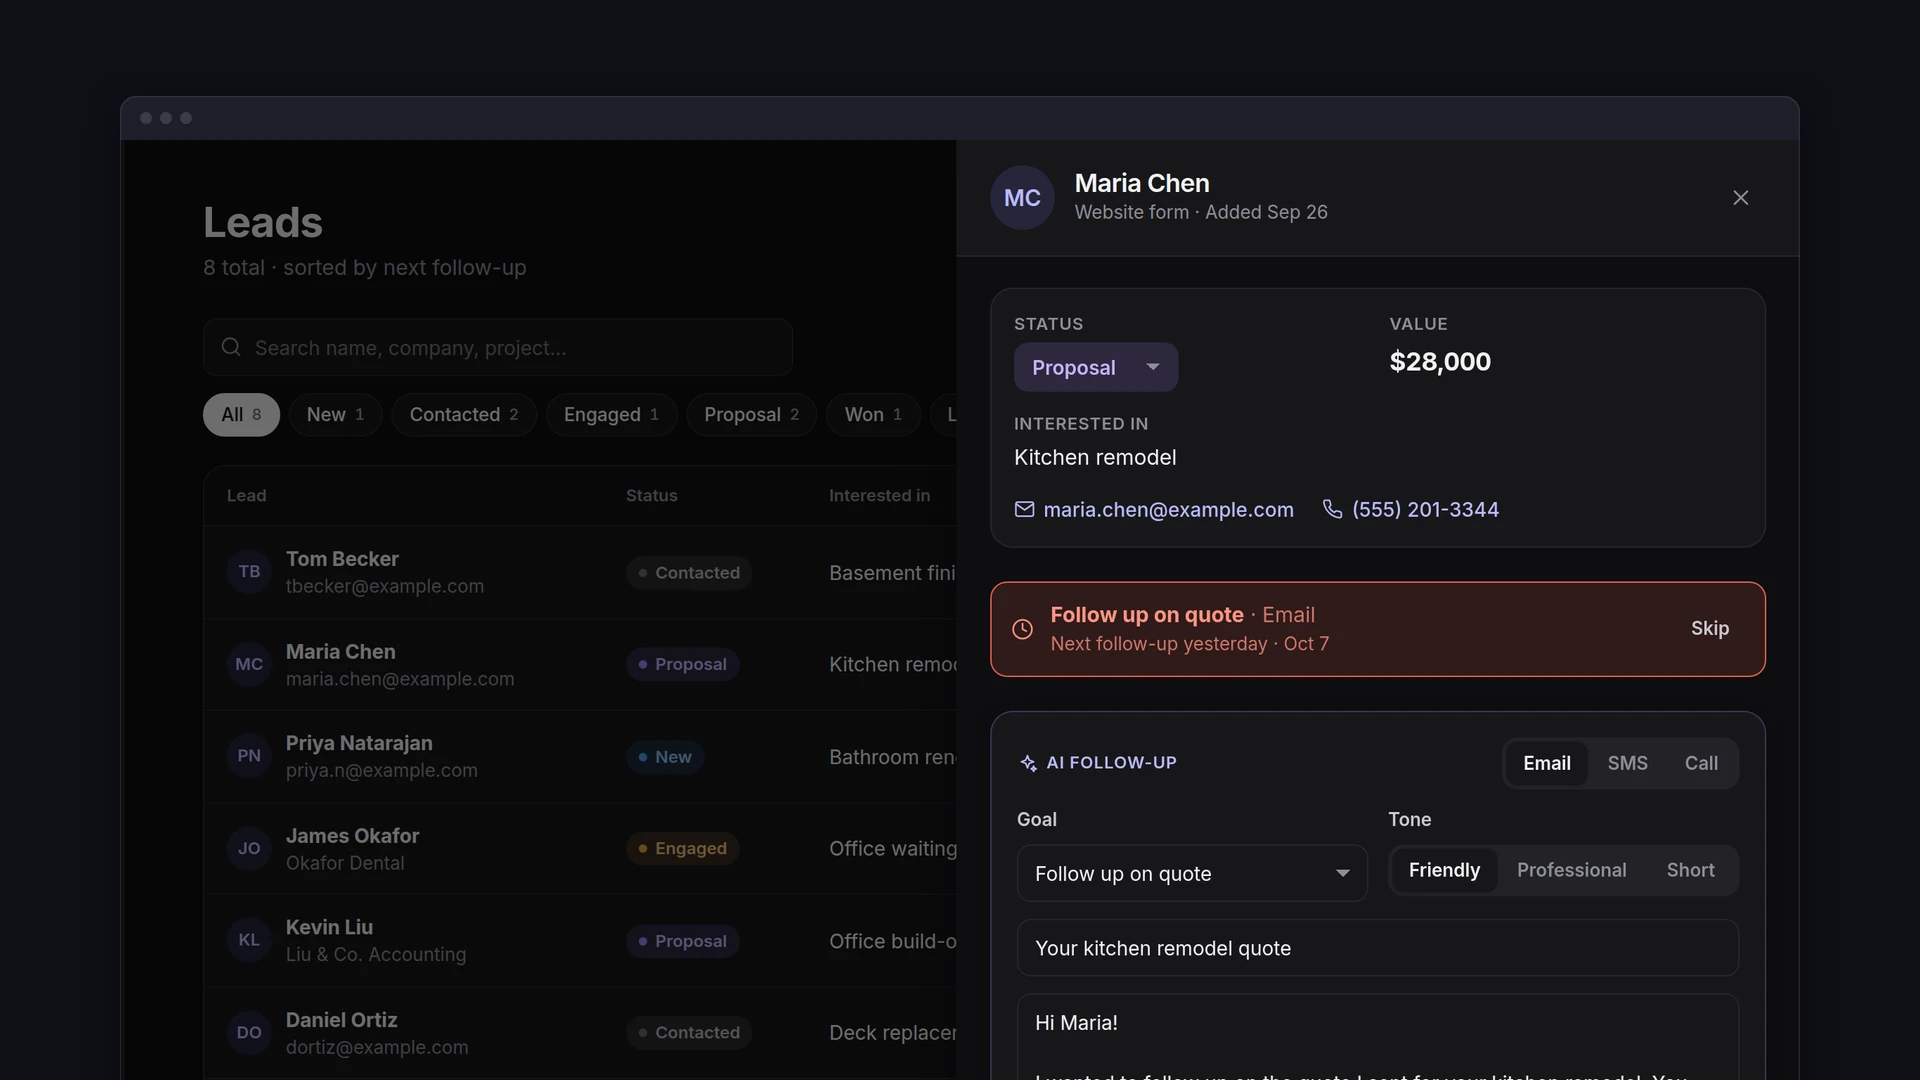
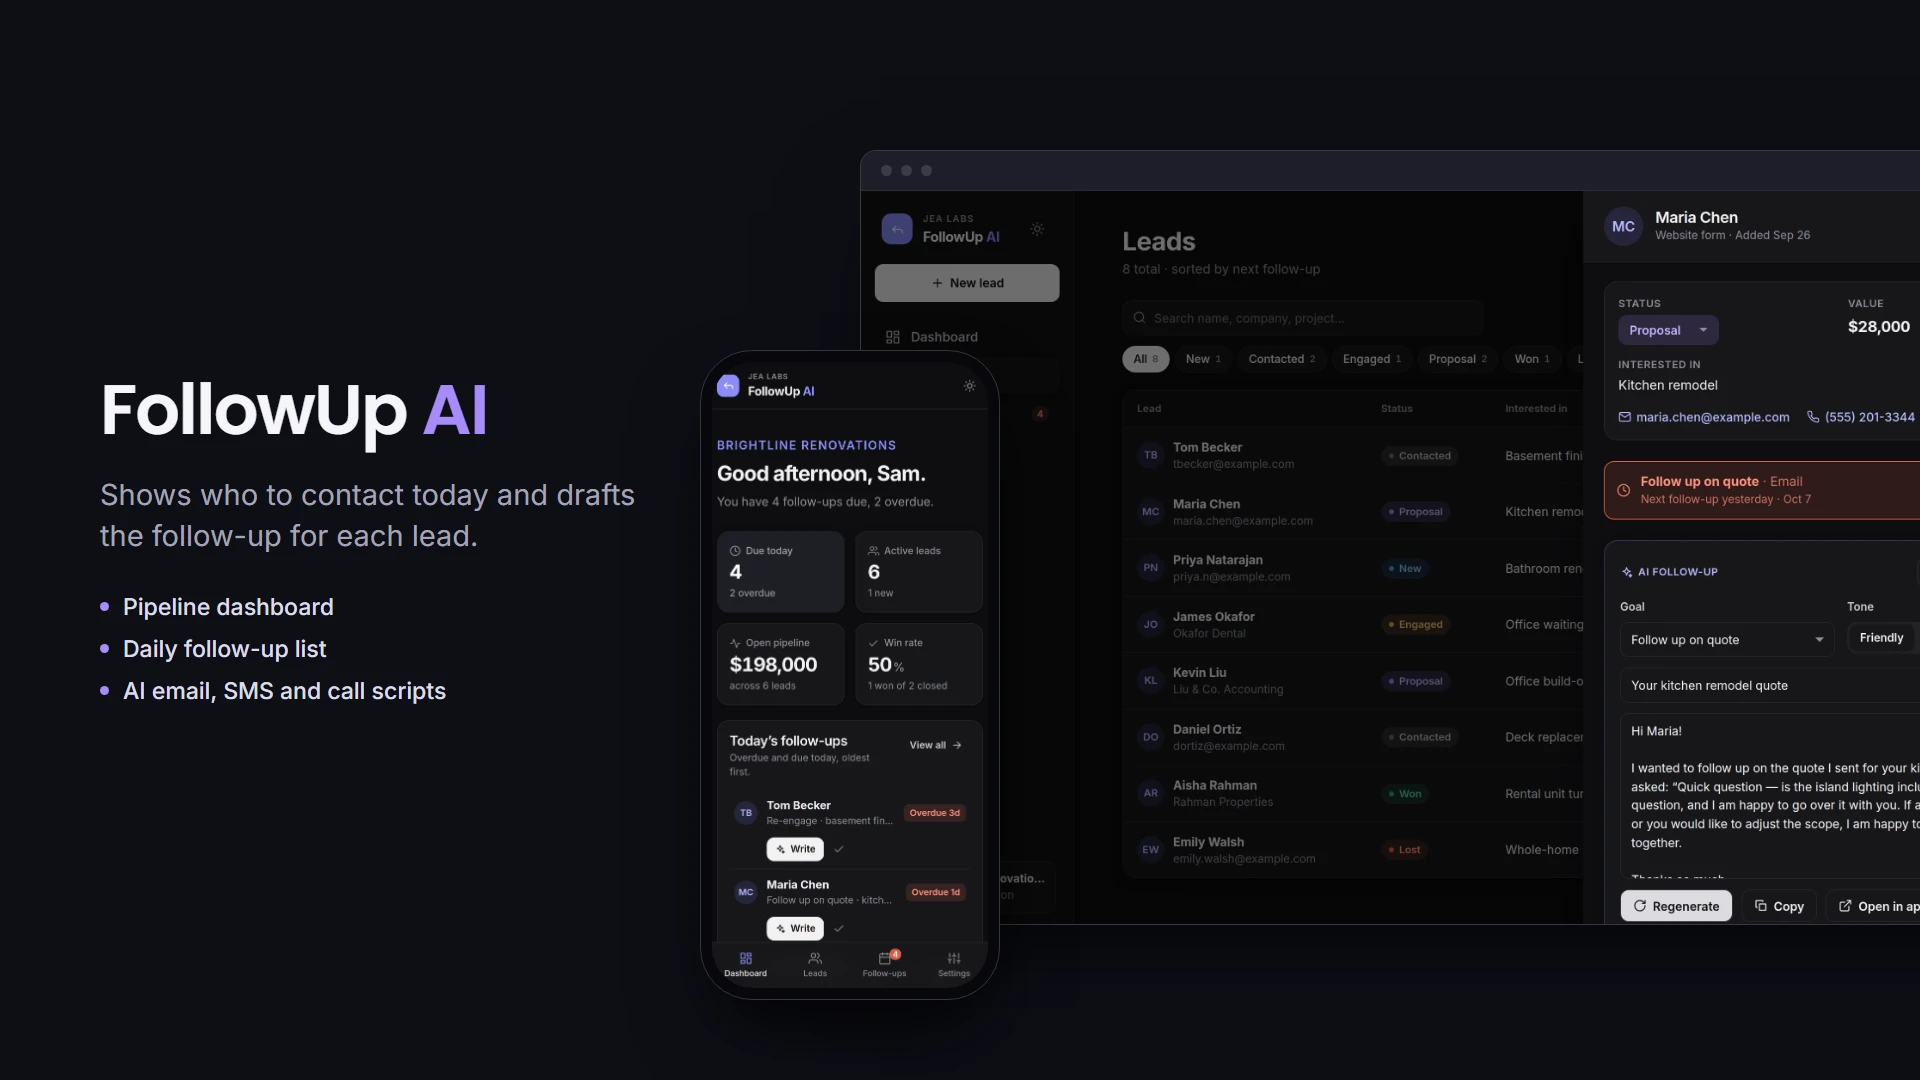
Redesign portfolio thumbnails with name, desktop and mobile views
Each thumbnail now shows the product name, a one-line description and
key features beside real desktop and mobile screenshots, without any
sales copy. Alt text updated to match.

diff --git a/src/data/site.ts b/src/data/site.ts
@@ -50,7 +50,7 @@ export const featured = {
   note: 'Started as my IT capstone and rebuilt as a live product. It is an aid for checking information, not a final authority.',
   tags: ['Java', 'Spring Boot', 'Spring AI', 'React', 'PostgreSQL', 'LLM + Web Search'],
   image: verifactImg,
-  alt: 'VeriFact check page with text, image and audio input tabs, next to an example report marking the claim "The Eiffel Tower is located in Rome" as Contradicted with a reference source and a fact-checker source',
+  alt: 'VeriFact homepage with an example report marking a claim as Contradicted with its sources, beside the VeriFact check page on a phone',
 };
 
 export const projects = [
@@ -61,7 +61,7 @@ export const projects = [
       'Customer support helpdesk with an inbox, tickets, customers, a knowledge base and analytics, using Claude to draft replies, summarize tickets and suggest category, priority and tags.',
     tags: ['JavaScript', 'Node.js', 'Claude API', 'Helpdesk'],
     image: supportdeskImg,
-    alt: 'SupportDesk AI inbox with a ticket list and an open ticket showing an AI summary with customer mood and suggested next steps',
+    alt: 'SupportDesk AI inbox with an AI ticket summary on desktop, beside the helpdesk dashboard on a phone',
   },
   {
     name: 'AI Receptionist',
@@ -70,7 +70,7 @@ export const projects = [
       'Business website with a chat receptionist that answers from business data and offers open time slots, a five-step booking flow and an admin dashboard.',
     tags: ['Astro', 'TypeScript', 'Booking', 'Chat assistant'],
     image: receptionistImg,
-    alt: 'Demo dental clinic website with the Luma AI chat assistant answering a pricing question and offering open appointment times',
+    alt: 'AI Receptionist demo dental clinic site with the Luma AI chat offering open appointment times, beside the mobile site on a phone',
   },
   {
     name: 'QuoteFlow AI',
@@ -79,7 +79,7 @@ export const projects = [
       'Quotation tool that turns a plain-language customer request into a line-item quote, with a quote pipeline dashboard and print-ready PDF output.',
     tags: ['React', 'TypeScript', 'Business software'],
     image: quoteflowImg,
-    alt: 'QuoteFlow AI new-quote screen with the AI assistant turning a customer request into suggested services and line items, and a running quote total',
+    alt: 'QuoteFlow AI new-quote screen with the AI assistant drafting line items, beside the quote dashboard on a phone',
   },
   {
     name: 'InvoiceFlow AI',
@@ -88,7 +88,7 @@ export const projects = [
       'Invoicing app for freelancers and small businesses with a revenue dashboard, payment tracking, print-ready PDF invoices, and AI-written line items and payment reminders.',
     tags: ['JavaScript', 'Node.js', 'Invoicing'],
     image: invoiceflowImg,
-    alt: 'InvoiceFlow AI dashboard with revenue, paid, pending and overdue totals, a monthly revenue chart and invoice status breakdown',
+    alt: 'InvoiceFlow AI revenue dashboard with totals, a monthly chart and invoice status, on desktop and on a phone',
   },
   {
     name: 'LeadFlow AI',
@@ -97,7 +97,7 @@ export const projects = [
       'Lead capture assistant that collects contact details, tags each enquiry by intent and drafts follow-up email and SMS messages for a lead dashboard.',
     tags: ['Astro', 'TypeScript', 'Lead capture', 'Automation'],
     image: leadflowImg,
-    alt: 'LeadFlow AI lead dashboard with a lead detail panel showing an AI summary, contact details and buttons to generate a follow-up email or SMS',
+    alt: 'LeadFlow AI lead dashboard with an AI summary and follow-up buttons, beside the demo clinic site with its lead capture chat on a phone',
   },
   {
     name: 'ReviewFlow AI',
@@ -106,7 +106,7 @@ export const projects = [
       'Review management dashboard with rating trends, sentiment breakdown, drafted replies to customer reviews and review-request messages.',
     tags: ['React', 'TypeScript', 'Reputation'],
     image: reviewflowImg,
-    alt: 'ReviewFlow AI dashboard with average rating, review counts, a six-month rating trend chart and a sentiment breakdown',
+    alt: 'ReviewFlow AI dashboard with average rating, rating trend and sentiment breakdown, on desktop and on a phone',
   },
   {
     name: 'WebInABox',
@@ -115,7 +115,7 @@ export const projects = [
       'Hotel website template with a working demo booking flow covering availability, pricing, taxes and guest details, plus a demo admin dashboard.',
     tags: ['Astro', 'TypeScript', 'Hospitality'],
     image: webinaboxImg,
-    alt: 'Demo seaside hotel website with an illustrated hero and a check-in, check-out and guests search bar',
+    alt: 'WebInABox demo hotel booking page with dates, guests and room choices, beside the hotel homepage on a phone',
   },
   {
     name: 'FollowUp AI',
@@ -124,7 +124,7 @@ export const projects = [
       'Lead follow-up tracker with a pipeline dashboard, a daily list of who to contact, and AI-drafted email, SMS and call scripts for each lead.',
     tags: ['React', 'TypeScript', 'Sales', 'Automation'],
     image: followupImg,
-    alt: 'FollowUp AI leads list with a lead drawer showing deal details and an AI-drafted follow-up email',
+    alt: 'FollowUp AI leads list with an AI-drafted follow-up email on desktop, beside the follow-up dashboard on a phone',
   },
 ];
 
